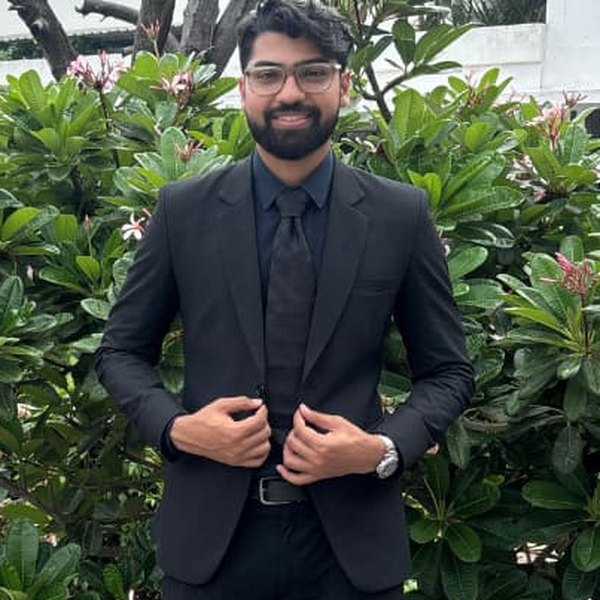
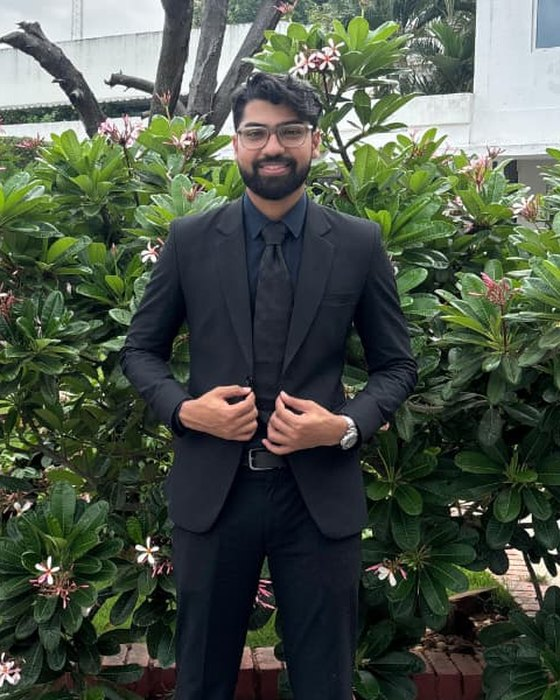
Hero portrait: show full 4:5 framing, uncropped
Reframe the hero photo from a tight square head-shoulders crop to a 4:5
head-to-waist portrait so the full figure shows; match the frame's
aspect-ratio to the image and bump the mobile size a touch.

diff --git a/index.css b/index.css
@@ -145,9 +145,9 @@ a { color: inherit; }
 .link-arrow:hover { color: var(--accent); }
 
 .hero-portrait img {
-  width: clamp(150px, 22vw, 220px);
+  width: clamp(160px, 22vw, 230px);
   height: auto;
-  aspect-ratio: 1 / 1;
+  aspect-ratio: 4 / 5;
   object-fit: cover;
   border: 1px solid var(--hairline);
 }
@@ -753,7 +753,7 @@ body.lb-open { overflow: hidden; }
   .site-nav { display: none; }
   .hero { grid-template-columns: 1fr; }
   .hero-portrait { order: -1; }
-  .hero-portrait img { width: 120px; }
+  .hero-portrait img { width: 150px; }
 }
 @media (max-width: 420px) {
   .stats { grid-template-columns: 1fr; }

diff --git a/index.html b/index.html
@@ -78,7 +78,7 @@
         </div>
       </div>
       <div class="hero-portrait reveal">
-        <img src="assets/img/profile.jpg" width="600" height="600" loading="eager"
+        <img src="assets/img/profile.jpg" width="560" height="700" loading="eager"
              alt="Portrait of Shivnath Gujar in a suit">
       </div>
     </section>
